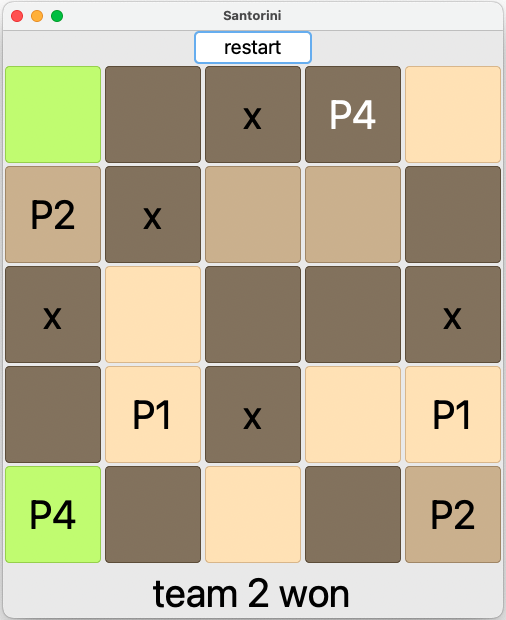
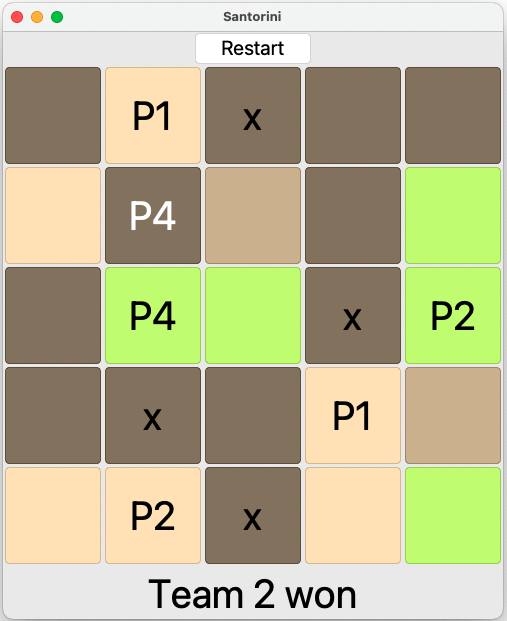
Update README.md

diff --git a/board_games/Santorini/board.py b/board_games/Santorini/board.py
@@ -26,7 +26,7 @@ from board_games.board_base import GameBoardBase
 
 class GameBoard(GameBoardBase):
     def __init__(self, agents=None, learn_id=-1, invalid_action_reward=-10, print_simulation=0, mode='',
-                 use_gui=False, delay=0.2):
+                 use_gui=False, delay=0.0):
 
         GameBoardBase.__init__(self, agents, learn_id, invalid_action_reward)
 
@@ -75,12 +75,17 @@ class GameBoard(GameBoardBase):
         self.label = None
         self.di = defaultdict(lambda: -1, {(self.dx[d], self.dy[d]): d for d in range(8)})
         self.fg_colors = {"default": "black", "chosen": "white"}
-        # self.bg_colors = {0: 'DarkOliveGreen1', 1: "burlywood1", 2: "burlywood2", 3: "burlywood4", 4: "blue"}
+
+        # self.bg_colors = {0: 'wheat1', 1: "wheat2", 2: "wheat3", 3: "wheat4", 4: "wheat4"}
+        # self.bg_colors = {0: "#daeddf", 1: "#9ae3ae", 2: "#17e650", 3: "#149938", 4: "#149938"}
+        # self.bg_colors = {0: "plum1", 1: "orchid1", 2: "MediumOrchid1", 3: "DarkOrchid1", 4: "purple1"}
+        # self.bg_colors = {0: "LightBlue1", 1: "sky blue", 2: "royal blue", 3: "blue", 4: "blue"}
+        # self.bg_colors = {0: 'DarkOliveGreen1', 1: "LightYellow2", 2: "LightYellow3", 3: "LightYellow4", 4: "LightYellow4"}
+        # self.bg_colors = {0: 'DarkOliveGreen1', 1: "orange2", 2: "orange3", 3: "orange4", 4: "orange4"}
+        # self.bg_colors = {0: 'khaki1', 1: "khaki2", 2: "khaki3", 3: "khaki4", 4: "khaki4"}
         self.bg_colors = {0: 'DarkOliveGreen1', 1: "wheat1", 2: "wheat3", 3: "wheat4", 4: "wheat4"}
-        # self.bg_colors = {0: 'DarkOliveGreen1', 1: "DodgerBlue1", 2: "DodgerBlue2", 3: "DodgerBlue3", 4: "DodgerBlue4"}
-        # self.bg_colors = {0: 'DarkOliveGreen1', 1: "RoyalBlue1", 2: "RoyalBlue2", 3: "RoyalBlue3", 4: "RoyalBlue4"}
-        # self.bg_colors = {0: 'DarkOliveGreen1', 1: "AntiqueWhite1", 2: "AntiqueWhite2", 3: "AntiqueWhite3", 4: "AntiqueWhite4"}
-        # self.bg_colors = {0: 'DarkOliveGreen1', 1: "AntiqueWhite1", 2: "AntiqueWhite2", 3: "AntiqueWhite3", 4: "AntiqueWhite4"}
+
+
         if self.gui:
             self.init_gui()
 
@@ -171,7 +176,6 @@ class GameBoard(GameBoardBase):
 
     def play(self):
         if self.print_simulation:
-            print('play')
             self.render()
 
         # Initialize locations
@@ -378,9 +382,9 @@ class GameBoard(GameBoardBase):
         )
 
         if self.gui:
-            self.label["text"] = "team %d won" % (self.info['winner_team'] + 1)\
+            self.label["text"] = "Team %d won" % (self.info['winner_team'] + 1)\
                 if 'winner_team' in self.info \
-                else "turn: %d" % (self.turn + 1)
+                else "Turn: %d" % (self.turn + 1)
             for x in range(5):
                 for y in range(5):
                     if self.buildings[x][y] == 4:
@@ -430,7 +434,7 @@ class GameBoard(GameBoardBase):
         self.window = tk.Tk()
         self.window.title("Santorini")
 
-        reset_button = Button(text="restart", font=('consolas', 20), command=self.new_game)
+        reset_button = Button(text="Restart", font=('consolas', 20), command=self.new_game)
         reset_button.pack(side="top")
 
         frame = tk.Frame(self.window)

diff --git a/play.py b/play.py
@@ -67,7 +67,7 @@ def main():
         print_simulation=2,
         mode=args.board_mode,
         use_gui=True,
-        delay=0.0
+        delay=0.2
     )
 
 

diff --git a/README.md b/README.md
@@ -1,7 +1,7 @@
-# Board game santorini using reinforcement algorithms
+# Board game Santorini with reinforcement learning algorithms
 This project applies Reinforcement algorithms to the board game Santorini without Godly powers.
-The training uses PPO, A2C, and TRPO algorithms with optional minimax or random agents.
-Graphical User Interface is provided.
+The training uses PPO, A2C, and TRPO algorithms with the self-play technique and optional random or minimax agents.
+Graphical User Interface and multi-player mode are available.
 
 ## Install with python 3.10
 
@@ -20,12 +20,14 @@ python play.py -p2 random
 ### Play with a minimax agent:
 
 ```bash
+python play.py -p2 minimax1 # depth 1
+python play.py -p2 minimax2 # depth 2
 python play.py -p2 minimax3 # depth 3
 ```
 
 ### Play with a trained model: 
 ```bash
-python play.py -p2 rl -pt2 zoo/ckpt/TRPO_mixed_2p/lr1.00e-02_run0 -bm init-rand
+python play.py -p2 rl -bm init-rand
 ```
 
 ### Play with another person:
@@ -36,12 +38,13 @@ python play.py -p2 human
 ### Watch agents playing:
 ```bash
 # 2 players mode: 1 vs 1
-python play.py -p1 rl -p2 minimax3 -pt1 zoo/ckpt/TRPO_mixed_2p/lr1.00e-02_run0 -bm init-rand
+python play.py -p1 rl -p2 minimax3
 # 3 players mode: 1 vs 1 vs 1
 python play.py -p1 minimax3 -p2 minimax3 -p3 minimax3
 # 4 players mode: 2 vs 2
 python play.py -p1 minimax3 -p2 minimax3 -p3 minimax3 -p4 minimax3
 ```
+
 
 ### User Interface:
 <p align="center">
